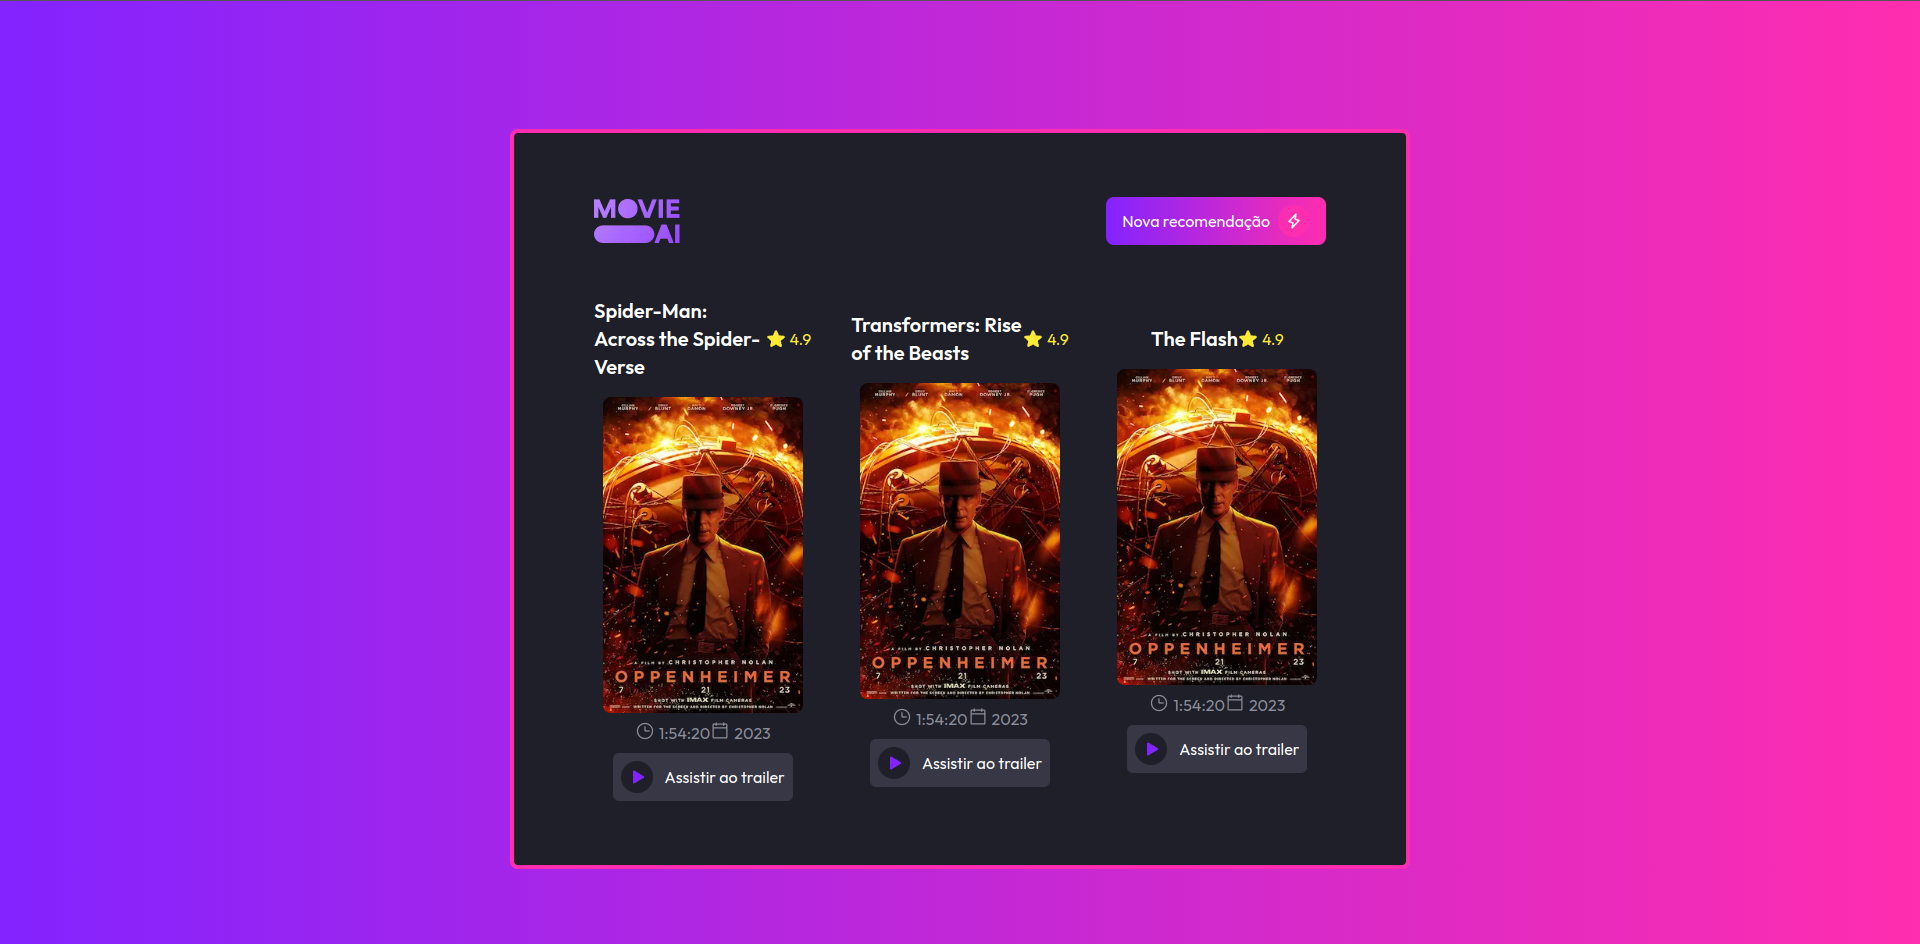
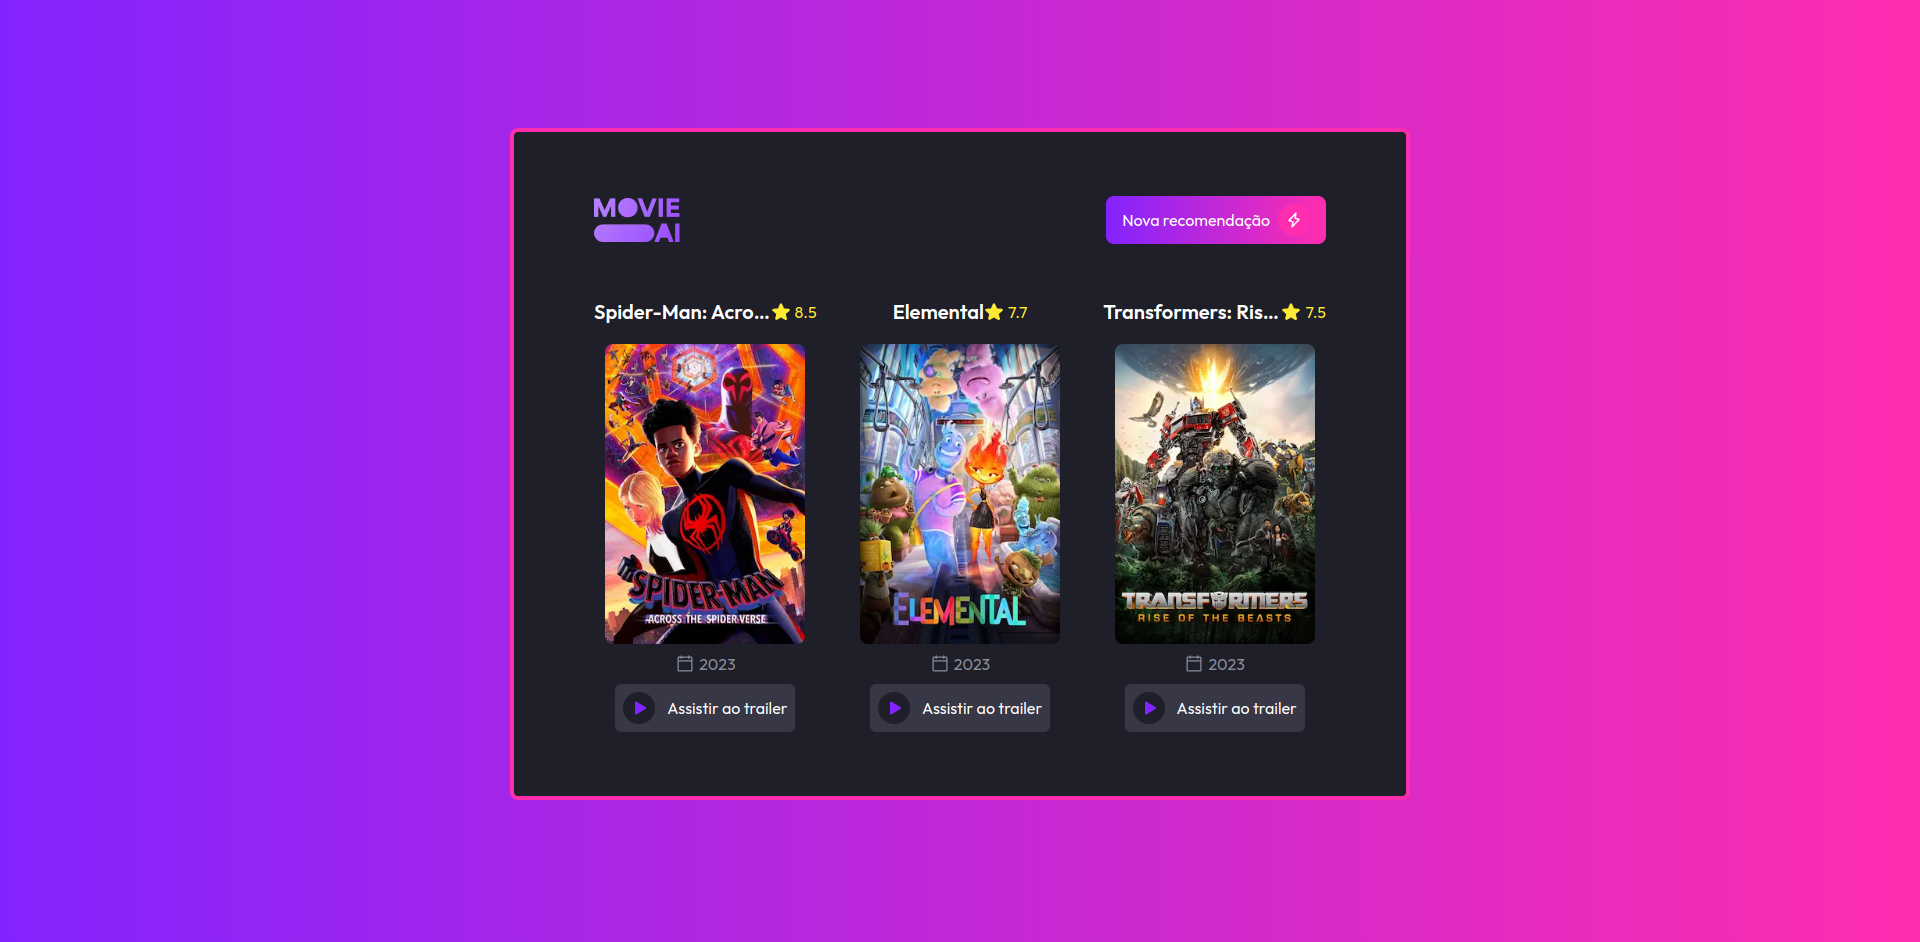
Nova Recomendação

Changed region(s): [[0.25, 0.3079, 0.75, 0.9236], [0.5938, 0.2155, 0.6562, 0.2463], [0.3125, 0.2155, 0.3438, 0.2463]]

diff --git a/src/app/page.tsx b/src/app/page.tsx
@@ -1,40 +1,22 @@
-"use client";
+'use client'
+
 // import { Ring } from "@uiball/loaders";
 // <Ring size={40} lineWeight={5} speed={2} color="red" />
+// criar um gif de process
 
-import Image from "next/image";
-import { Button } from "../components/header/Button";
-import { Card } from "@/components/main/Card";
-
+import { Header } from "@/components/header/Header";
+import { Main } from "@/components/main/Main";
 import useMovies from "@/hooks/useMovies";
-
 
 // arrumar layout
 
 export default function Home() {
-    
-  const { movies } = useMovies()
+  const { movies, handleNextMovies } = useMovies();
   return (
     <div className="w-[900px] flex flex-col items-center mx-auto mt-32 py-16 px-20 border-4 border-principal-pink rounded-lg bg-base-grayDark">
-      <header className="flex items-center justify-between w-full mb-9">
-        <Image src={"/img/Logo.png"} alt={"Logo"} width={86} height={44} />
-        <Button />
-      </header>
-      <main className="flex-col w-full items-center">
-        <div className="flex gap-10 justify-center items-center align-middle"> 
-          {movies.map((movie) => {
-            return (
-                <Card
-                  key={movie.id}
-                  title={movie.title}
-                  img={
-                    "https://pbs.twimg.com/media/FvUVt3hXgAAxP1H?format=jpg&name=900x900"
-                  }
-                  link={""}
-                />
-            );
-          })}
-        </div>
+      <Header change={handleNextMovies} />
+      <main className="flex w-full items-center">
+        <Main movies={movies}/>
       </main>
     </div>
   );

diff --git a/src/hooks/useMovies.ts b/src/hooks/useMovies.ts
@@ -1,19 +1,26 @@
-import { useState, useEffect } from "react";
+import { useState, useEffect, useCallback } from "react";
 import axios from "axios";
-import { API_KEY } from '../config/key'
+import { API_KEY } from "../config/key";
+
+//interface changeprops () => void
 
 export default function useMovies() {
-    
-    const url = `https://api.themoviedb.org/3/movie/popular?api_key=${API_KEY}`;
-    const [movies, setMovies] = useState<any[]>([{}]);
-  
-    useEffect(() => {
-      axios
-        .get(url)
-        .then((response) => response.data)
-        .then((data) => setMovies(data.results.slice(0, 3))); // mudar esse slice(0, 3) de forma aleatorica depois!!
-                                                              // usa o chat ja exsitente no gpt para perguntar
-    }, []);
+  const url = `https://api.themoviedb.org/3/movie/popular?api_key=${API_KEY}`;
+  const [movies, setMovies] = useState<any[]>([{}]);
+  const [index, setIndex] = useState(0);
 
-    return { movies }
+  function handleNextMovies() {
+    setIndex(index + 3);
+  }
+
+  useEffect(() => {
+    axios
+      .get(url)
+      .then((response) => response.data)
+      .then((data) => {
+        setMovies(data.results.slice(index, index + 3));
+      });
+  }, [index]);
+
+  return { movies, handleNextMovies };
 }

diff --git a/src/components/main/Card.tsx b/src/components/main/Card.tsx
@@ -1,30 +1,32 @@
 import { Footer } from "./Footer";
 import { PlayButton } from "./PlayButton";
 import { Title } from "./Title";
-import Image from 'next/image'
+import Image from "next/image";
 
 interface CardProps {
-    title: any,
-    img: string,
-    link: string
+  title: any;
+  img: string;
+  link: string;
+  vote: any;
+  date: string;
 }
 
 export function Card(props: CardProps) {
-    return (
-        <div className="w-1/3 flex flex-col justify-center items-center">
-            <Title>{props.title}</Title>
-            <Image
-              src={
-                props.img
-              }
-              alt={props.title}
-              width={200}
-              height={280}
-              className="rounded-lg"
-            />
+  return (
+    <div className="w-full flex flex-col justify-center items-center">
+      <Title vote={props.vote}>{props.title}</Title>
 
-            <Footer />
-            <PlayButton link={props.link} />
-          </div>
-    )
+      <Image
+        src={props.img}
+        alt={'poster'}
+        width={200}
+        height={280}
+        className="rounded-lg"
+      />
+
+      <Footer date={props.date} />
+      
+      <PlayButton link={props.link} />
+    </div>
+  );
 }

diff --git a/src/components/header/Button.tsx b/src/components/header/Button.tsx
@@ -1,14 +1,21 @@
-'use client'
+import { Lightning } from "phosphor-react";
 
-import { Lightning } from "phosphor-react"
+interface ButtonProps {
+  change: () => void;
+}
 
-//hook para chamar API
-
-export function Button() {
-    return (
-        <button className="flex items-center px-4 py-2 rounded-lg text-white gap-2 bg-gradient-to-r from-principal-purple to-principal-pink hover:bg-gradient-to-l transition-all">
-            Nova recomendação
-            <Lightning size={32} className="rounded-full p-2 bg-principal-pink" weight="bold"/>
-        </button>
-    )
+export function Button(props: ButtonProps) {
+  return (
+    <button
+      onClick={props.change}
+      className="flex items-center px-4 py-2 rounded-lg text-white gap-2 bg-gradient-to-r from-principal-purple to-principal-pink hover:brightness-150 transition-all"
+    >
+      Nova recomendação
+      <Lightning
+        size={32}
+        className="rounded-full p-2 bg-principal-pink"
+        weight="bold"
+      />
+    </button>
+  );
 }

diff --git a/src/components/main/Footer.tsx b/src/components/main/Footer.tsx
@@ -1,19 +1,25 @@
-'use client'
+"use client";
 
-import { CalendarBlank, Clock } from "phosphor-react"
+import { CalendarBlank, Clock } from "phosphor-react";
+interface FooterProps {
+  date: any;
+}
 
-export function Footer() {
-    return (
-        <div className="flex justify-between text-base-grayLight py-2">
-          <div className="flex gap-1">
-          <Clock size={20}/>
-            <span>1:54:20</span>
-          </div>
-        <div className="flex gap-1">
-        <CalendarBlank size={20}/>
-        <span>2023</span>
-        </div>
+export function Footer(props: FooterProps) {
+  const date = new Date(props.date);
 
-        </div>
-    )
+  function FormatDate(date: any) {
+    const year = date.getFullYear();
+
+    return year;
+  }
+
+  const formatedDate = FormatDate(date);
+
+  return (
+    <div className="w-full flex justify-center gap-1 items-center text-base-grayLight py-2">
+      <CalendarBlank size={20} />
+      <span>{formatedDate}</span>
+    </div>
+  );
 }

diff --git a/src/components/main/Title.tsx b/src/components/main/Title.tsx
@@ -1,17 +1,20 @@
-'use client'
-
 import { Star } from "phosphor-react";
 
+interface TitleProps {
+  children: any;
+  vote: any;
+}
 
-export function Title(props: any) {
-    return (
-        <div className="flex items-center justify-between py-4">
-            <h1 className="font-black text-xl text-white">{props.children}</h1>
+// arrumar grid imagem e titulo
 
-          <div className="flex gap-1 items-center text-principal-yellow">  
-            <Star size={20} weight={'fill'}/>
-            <span>4.9</span>
-            </div>
-          </div>
-    )
+export function Title(props: TitleProps) {
+  return (
+    <div className="flex items-center justify-center py-4 h-[4em] w-full overflow-hidden">
+      <h1 className="font-black text-xl text-white truncate">{props.children}</h1>
+      <div className="flex gap-1 items-center text-principal-yellow">
+        <Star size={20} weight={"fill"} />
+        <span>{props.vote}</span>
+      </div>
+    </div>
+  );
 }

diff --git a/src/components/main/Main.tsx b/src/components/main/Main.tsx
@@ -1,0 +1,28 @@
+import useMovies from "@/hooks/useMovies";
+import { Card } from "./Card";
+
+interface MovieProps {
+  movies: any[];
+}
+
+export function Main(props: MovieProps) {
+  const base_url = "https://image.tmdb.org/t/p/original";
+
+  return (
+    <div className="grid gap-8 grid-cols-3 items-center w-full">
+      {props.movies.map((movie) => {
+        return (
+          <div key={movie.id} className="flex items-center justify-center">
+            <Card
+              title={movie.title}
+              vote={movie.vote_average}
+              img={`${base_url}${movie.poster_path}`}
+              link={""}
+              date={movie.release_date}
+            />
+          </div>
+        );
+      })}
+    </div>
+  );
+}

diff --git a/src/components/header/Header.tsx b/src/components/header/Header.tsx
@@ -1,0 +1,15 @@
+import Image from "next/image";
+import { Button } from "./Button";
+
+interface ButtonProps {
+  change: () => void;
+}
+
+export function Header(props: ButtonProps) {
+  return (
+    <header className="flex items-center justify-between w-full mb-9">
+      <Image src={"/img/Logo.png"} alt={"Logo"} width={86} height={44} />
+      <Button change={props.change} />
+    </header>
+  );
+}

diff --git a/next.config.js b/next.config.js
@@ -1,7 +1,7 @@
 /** @type {import('next').NextConfig} */
 const nextConfig = {
     images: {
-        domains: ['pbs.twimg.com',]
+        domains: ['pbs.twimg.com', 'image.tmdb.org']
     }
 }
 

diff --git a/README.md b/README.md
@@ -13,3 +13,9 @@ Uma aplicação usando Next13 e React, que consome uma API e retorna filmes que 
 - criei um hook que para consumir a API
 - organizei algumas partes da aplicação que estavam em lugares errados 
 - ainda preciso organizar alguns erros bobos, mas os quais não identifiquei ainda, fora isso preciso dar um toque final no design dos cards e terminar de consumir o restante das infos necessárias que a api me disponibiliza
+
+### dia 17/08:
+* Hoje terminei de criar o hook que faz a requesição para a API e renderizei os posters dos filmes
+- ainda preciso criar um botao para voltar depois que acaba a lista de filmes
+- criar os gifs de processamento
+- e o botão para ver o trailer do filme
